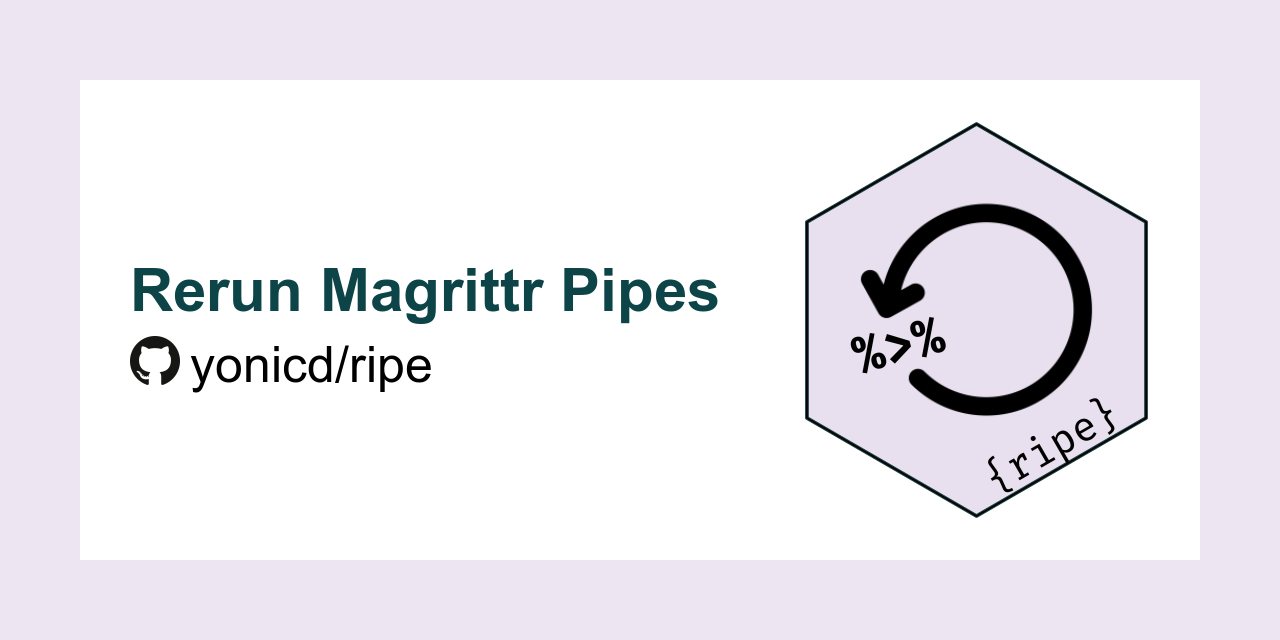
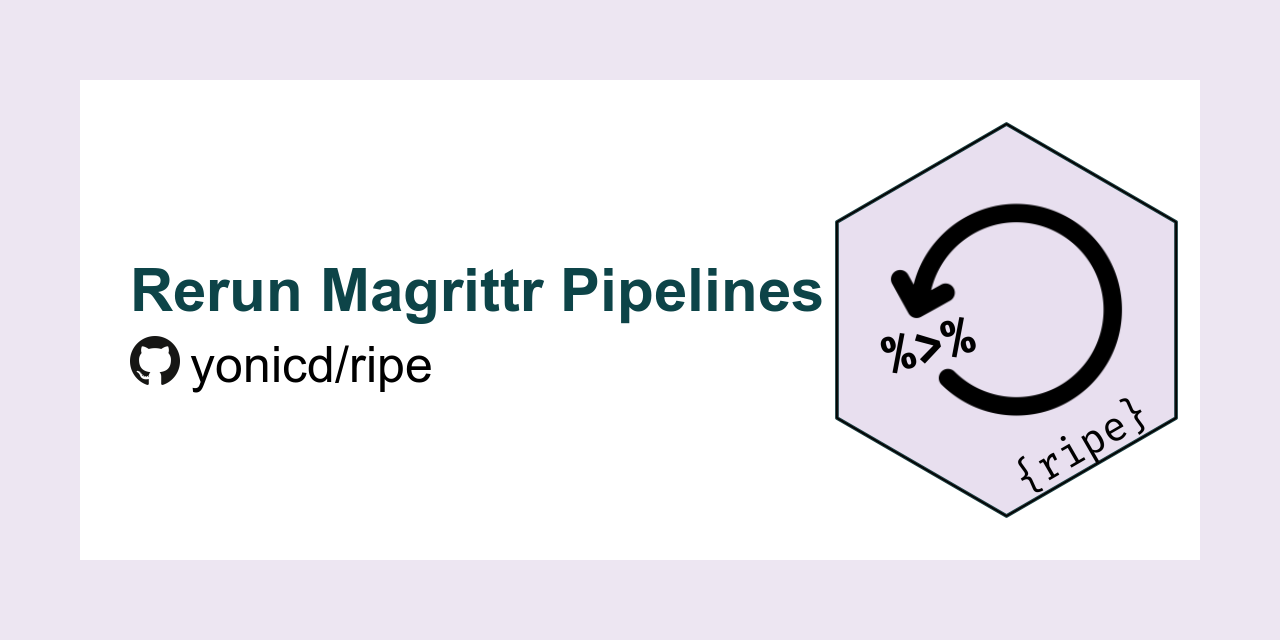
update DESCRIPTION

Changed region(s): [[0.5312, 0.1875, 0.9375, 0.8125]]

diff --git a/README.md b/README.md
@@ -4,7 +4,7 @@
 <!-- badges: start -->
 
 [![R build
-status](https://github.com/yonicd/ripe/workflows/R/badge.svg)](http://tinyurl.com/vptyaou)
+status](https://github.com/yonicd/ripe/workflows/R/badge.svg)](https://github.com/yonicd/ripe)
 [![Codecov test
 coverage](https://codecov.io/gh/yonicd/ripe/branch/master/graph/badge.svg)](https://codecov.io/gh/yonicd/ripe?branch=master)
 [![Covrpage
@@ -14,7 +14,7 @@ Summary](https://img.shields.io/badge/covrpage-Last_Build_2019_11_20-brightgreen
 # ripe <img src="https://github.com/yonicd/ripe/raw/master/input/logo.png" align="right"  class="logo"/>
 
 The goal of ripe is to create a more flexible way to rerun {magrittr}
-pipes.
+pipelines.
 
 ## Installation
 
@@ -24,7 +24,8 @@ remotes::install_github('yonicd/ripe')
 
 ## Goal
 
-We want to write the following in a shorter and more flexible way
+We want to rerun the following pipeline that contains stochastic
+elements in a shorter and more flexible way
 
 ``` r
 
@@ -35,64 +36,87 @@ f <- function(){
     utils::head(5)
 }
 
+set.seed(123)
+
 replicate(n=3,f(),simplify = FALSE)
 #> [[1]]
-#> [1] 0.0968035 0.8454892 0.1745602 0.3575017 0.4501556
+#> [1] 0.5514350 0.4089769 0.8924190 0.5281055 0.4566147
 #> 
 #> [[2]]
-#> [1] 0.3679469 0.1098656 0.8822747 0.4639327 0.4780120
+#> [1] 0.4145463 0.2164079 0.1428000 0.3688455 0.4659625
 #> 
 #> [[3]]
-#> [1] 0.4928808 0.4216918 0.9623356 0.9968997 0.4267262
+#> [1] 0.7881958 0.1028646 0.4348927 0.9849570 0.4398317
 ```
+
+## Can’t I just add replicate to the end of it?
+
+``` r
+
+set.seed(123)
+
+stats::runif(20)%>%
+   sample(10)%>%
+   utils::head(5)%>%
+   replicate(n = 3,simplify = FALSE)
+#> [[1]]
+#> [1] 0.5514350 0.4089769 0.8924190 0.5281055 0.4566147
+#> 
+#> [[2]]
+#> [1] 0.5514350 0.4089769 0.8924190 0.5281055 0.4566147
+#> 
+#> [[3]]
+#> [1] 0.5514350 0.4089769 0.8924190 0.5281055 0.4566147
+```
+
+That didn’t do what we wanted…
 
 ## This is better\!
 
 ``` r
+
+set.seed(123)
+
 stats::runif(20)%>%
   sample(10)%>%
   utils::head(5)%>%
-  ripe(replicate,n=4,simplify=FALSE)
+  ripe(replicate,n=3,simplify=FALSE)
 #> [[1]]
-#> [1] 0.8804825 0.3483930 0.4533070 0.6211814 0.9554034
+#> [1] 0.4145463 0.2164079 0.1428000 0.3688455 0.4659625
 #> 
 #> [[2]]
-#> [1] 0.070709895 0.294193154 0.079700112 0.003996361 0.669914183
+#> [1] 0.7881958 0.1028646 0.4348927 0.9849570 0.4398317
 #> 
 #> [[3]]
-#> [1] 0.6945401 0.8577393 0.9127064 0.8887865 0.3525595
-#> 
-#> [[4]]
-#> [1] 0.1899845 0.3562713 0.5428040 0.5239328 0.1734483
+#> [1] 0.9144382 0.4886130 0.7205963 0.4829024 0.6087350
 ```
 
-## Manipulate Chain Replicates
+## Manipulate Pipeline Replicates
 
-We can now manipulate the chain or move `ripe` around into different
+We can now manipulate the pipeline or move `ripe` around into different
 subsets of the chain, creating iterative replication workflows.
 
 ``` r
 
+set.seed(123)
+
 stats::runif(20)%>%
   #sample(10)%>%
   utils::head(5)%>%
-  ripe(replicate,n=4,simplify=FALSE)
+  ripe(replicate,n=3,simplify=FALSE)
 #> [[1]]
-#> [1] 0.4190696 0.5421558 0.2328920 0.7534823 0.7022927
+#> [1] 0.8895393 0.6928034 0.6405068 0.9942698 0.6557058
 #> 
 #> [[2]]
-#> [1] 0.71623630 0.01033047 0.22529627 0.59411469 0.96655041
+#> [1] 0.1428000 0.4145463 0.4137243 0.3688455 0.1524447
 #> 
 #> [[3]]
-#> [1] 0.1212441 0.7031401 0.2986797 0.2795129 0.1539391
-#> 
-#> [[4]]
-#> [1] 0.1000496 0.6999692 0.1246881 0.7505028 0.1989340
+#> [1] 0.66511519 0.09484066 0.38396964 0.27438364 0.81464004
 ```
 
-## Convert Chains to Lazy Functions
+## Convert Pipelines to Lazy Functions
 
-You can also quickly convert the chain to a lazyeval function
+You can also quickly convert the pipelines to a lazyeval function
 
 ``` r
 f <- stats::runif(20)%>%
@@ -100,8 +124,11 @@ f <- stats::runif(20)%>%
   utils::head(5)%>%
   lazy()
 
+set.seed(123)
+
 f()
-#> [1] 0.9952948 0.9964912 0.7221552 0.5073125 0.6166304
+#> [1] 0.5514350 0.4089769 0.8924190 0.5281055 0.4566147
+
 f()
-#> [1] 0.84495838 0.62491868 0.47617926 0.57319266 0.09440818
+#> [1] 0.4145463 0.2164079 0.1428000 0.3688455 0.4659625
 ```
